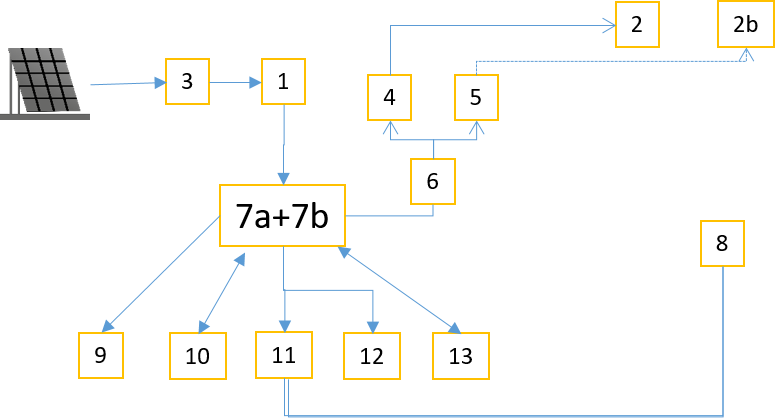
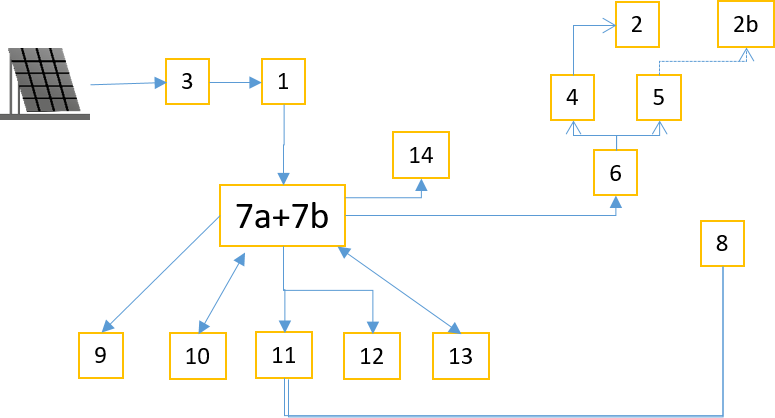
Update index.md (#5)
* Update index.md

* Add files via upload

diff --git a/docs/index.md b/docs/index.md
@@ -27,8 +27,8 @@ Ein kurzer Überblick und Erklärung der Komponenten für die Elektrik findet ma
 ![Elektrik Überblick](<wackelberry foto.png>)
 
 1. Solar-Laderegler
-2. Anschlüsse 12-V Bank I (2b - Bank II rechts daneben)
-3. Sicherung Solarzellen (nicht im Bild)
+2. Anschlüsse 12-V Bank I (2b - Bank II hinter Balken)
+3. Sicherung Solarzellen
 4. Konverter 48->12V Bank I
 5. Konverter 48->12V Bank II
 6. Sicherung der Konverter 4 und 5
@@ -39,6 +39,12 @@ Ein kurzer Überblick und Erklärung der Komponenten für die Elektrik findet ma
 11. Sicherung Engine I
 12. Sicherung Engine II
 13. Sicherung 230V-Wechselrichter + Notladegerät
+14. Sicherung Kühlschrank + Pumpe
+15. Wechselrichter (230V)
+16. Not-Ladegerät
+17. Endstufe Lautsprecher
+18. Raspbi
+19. Schalter Konsolenbeleuchtung
 
 48V Nominalspannung: Variiert zwischen 52-58 V
 
